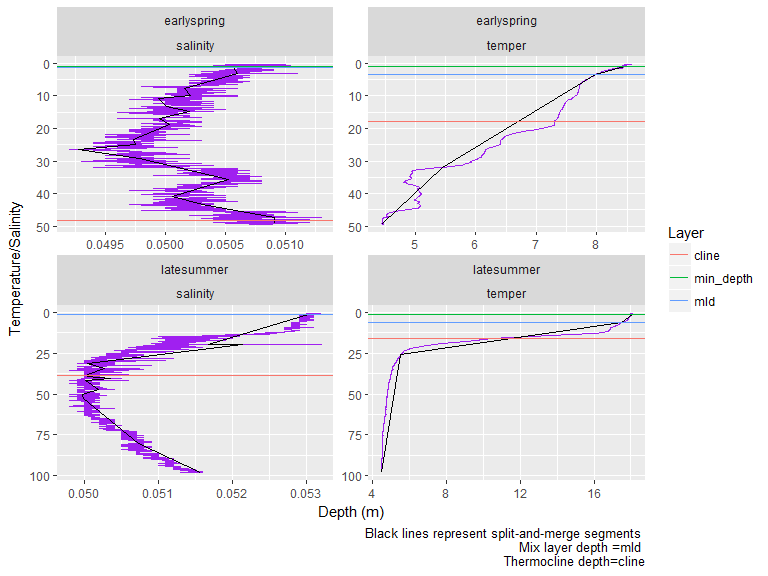
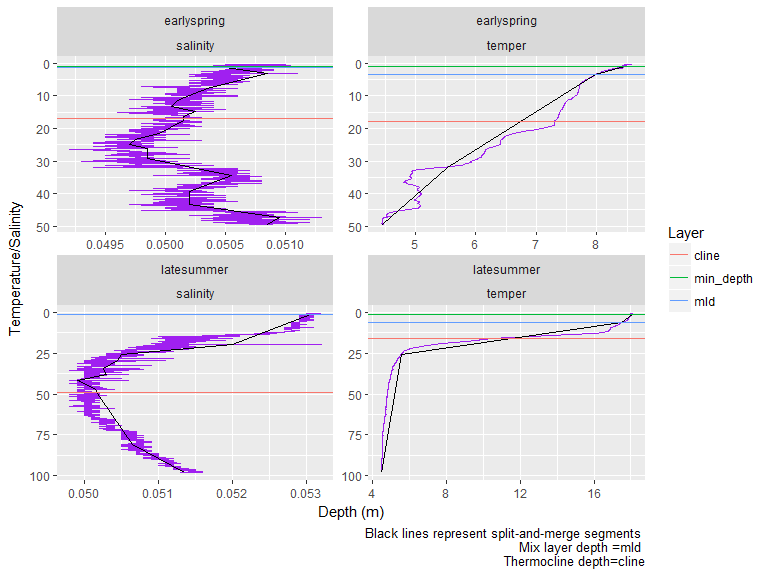
Renamed test_zerge Whoops. Forgot one last zerge.

diff --git a/vignettes/limnotools.md b/vignettes/limnotools.md
@@ -1,7 +1,7 @@
 Limnotools Usage
 ================
 Sam Albers and Doug Collinge
-2017-02-07
+2017-02-10
 
 Package loading
 ---------------
@@ -48,8 +48,8 @@ wldf <- wtr_layer(depth = latesummer$depth, measure = latesummer$temper)
 wldf
 ```
 
-    ##   min_depth nseg      mld    cline
-    ## 1         1    4 6.182394 15.95489
+    ##   min_depth nseg   mld   cline
+    ## 1         1    4 6.251 15.9315
 
 Note that the axes of the water column profile have been reversed and flipped to better visualize the water column and conform to standard limnological displays.
 
@@ -57,8 +57,10 @@ Note that the axes of the water column profile have been reversed and flipped to
 plot(y = latesummer$depth, x = latesummer$temper, ylim = rev(range(latesummer$depth)))
 abline(h = wldf$cline, col='blue')
 abline(h = wldf$mld, col='red')
+abline(h = wldf$min_depth, col='green')
 text(16, wldf$cline+3, "Thermocline", col = 'blue')
 text(16, wldf$mld+3, "Mix Layer Depth", col = 'red')
+text(16, wldf$min_depth+3, "Minimum Depth", col = 'green')
 ```
 
 ![](limnotools_files/figure-markdown_github/unnamed-chunk-5-1.png)
@@ -96,7 +98,7 @@ wl_df <- wtrprof_df %>%
 
     ## Warning in cline_calc(z_seg = sam_list[["smz"]], sigma_seg =
     ## sam_list[["sms"]]): Algorithm calculates cline to be in top segment. This
-    ## is likely due to surface scatter. Trying the next interval
+    ## is likely due to surface scatter. Using the next interval.
 
 ``` r
 wl_df
@@ -105,20 +107,20 @@ wl_df
     ## Source: local data frame [12 x 4]
     ## Groups: variable, group [4]
     ## 
-    ##    variable       group     Layer     value
-    ##       <chr>       <chr>     <chr>     <dbl>
-    ## 1  salinity earlyspring min_depth  1.000000
-    ## 2  salinity  latesummer min_depth  1.000000
-    ## 3    temper earlyspring min_depth  1.000000
-    ## 4    temper  latesummer min_depth  1.000000
-    ## 5  salinity earlyspring       mld  1.102604
-    ## 6  salinity  latesummer       mld  1.326494
-    ## 7    temper earlyspring       mld  3.518704
-    ## 8    temper  latesummer       mld  6.182394
-    ## 9  salinity earlyspring     cline 48.307158
-    ## 10 salinity  latesummer     cline 38.534828
-    ## 11   temper earlyspring     cline 17.713291
-    ## 12   temper  latesummer     cline 15.954893
+    ##    variable       group     Layer    value
+    ##       <chr>       <chr>     <chr>    <dbl>
+    ## 1  salinity earlyspring min_depth  1.00000
+    ## 2  salinity  latesummer min_depth  1.00000
+    ## 3    temper earlyspring min_depth  1.00000
+    ## 4    temper  latesummer min_depth  1.00000
+    ## 5  salinity earlyspring       mld  1.14750
+    ## 6  salinity  latesummer       mld  1.49850
+    ## 7    temper earlyspring       mld  3.55500
+    ## 8    temper  latesummer       mld  6.25100
+    ## 9  salinity earlyspring     cline 16.91000
+    ## 10 salinity  latesummer     cline 49.08875
+    ## 11   temper earlyspring     cline 17.68575
+    ## 12   temper  latesummer     cline 15.93150
 
 The same applies to wtr\_segments()
 
@@ -132,18 +134,18 @@ s_df
     ## Source: local data frame [42 x 6]
     ## Groups: variable, group [4]
     ## 
-    ##    variable       group min_depth  nseg     depth    measure
-    ##       <chr>       <chr>     <dbl> <dbl>     <dbl>      <dbl>
-    ## 1  salinity earlyspring         1    19  1.012000 0.05060000
-    ## 2  salinity earlyspring         1    19  1.102604 0.05056689
-    ## 3  salinity earlyspring         1    19  3.035484 0.05060042
-    ## 4  salinity earlyspring         1    19  7.686476 0.05015367
-    ## 5  salinity earlyspring         1    19  9.800564 0.05020636
-    ## 6  salinity earlyspring         1    19 10.887809 0.04994234
-    ## 7  salinity earlyspring         1    19 13.122701 0.05001027
-    ## 8  salinity earlyspring         1    19 14.874374 0.05020085
-    ## 9  salinity earlyspring         1    19 16.807254 0.04994953
-    ## 10 salinity earlyspring         1    19 18.740134 0.05002944
+    ##    variable       group min_depth  nseg   depth measure
+    ##       <chr>       <chr>     <dbl> <dbl>   <dbl>   <dbl>
+    ## 1  salinity earlyspring         1    21  1.0120 0.05060
+    ## 2  salinity earlyspring         1    21  1.1475 0.05050
+    ## 3  salinity earlyspring         1    21  3.0740 0.05085
+    ## 4  salinity earlyspring         1    21  7.7415 0.05035
+    ## 5  salinity earlyspring         1    21  9.7970 0.05020
+    ## 6  salinity earlyspring         1    21 11.2695 0.05010
+    ## 7  salinity earlyspring         1    21 13.1075 0.05005
+    ## 8  salinity earlyspring         1    21 14.8575 0.05025
+    ## 9  salinity earlyspring         1    21 16.3980 0.05015
+    ## 10 salinity earlyspring         1    21 17.4220 0.05015
     ## # ... with 32 more rows
 
 Lastly we plot the mix layer and cline depths and segments over the water profiles using the same limnological visualization convention described above and using ggplot2 (part of the tidyverse).
